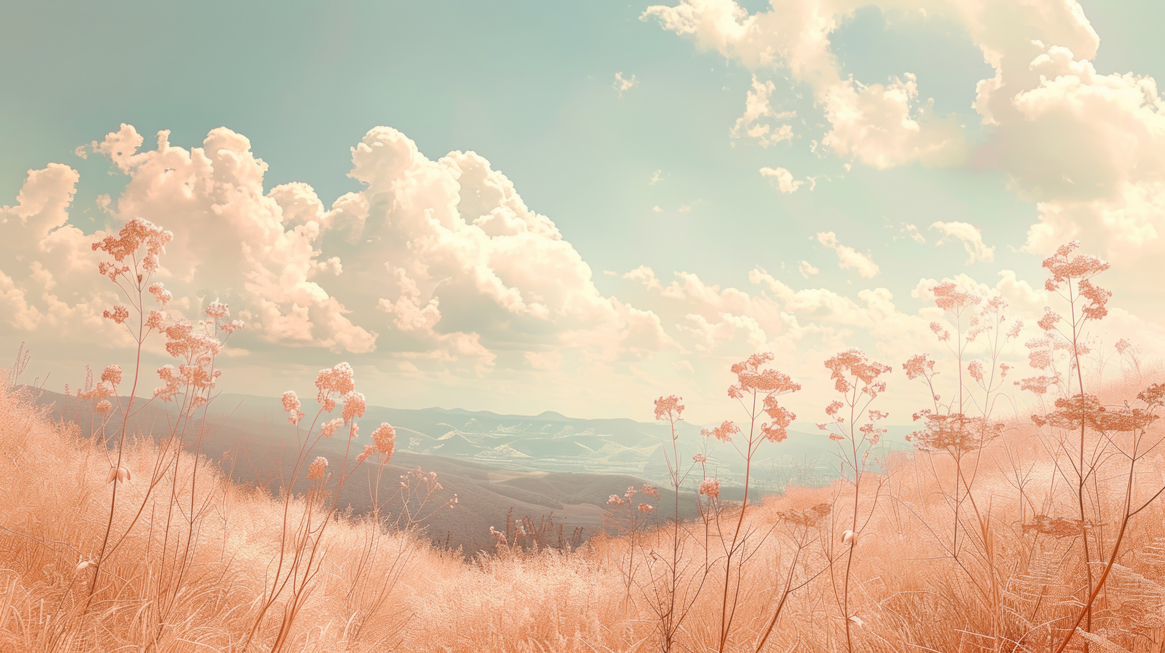
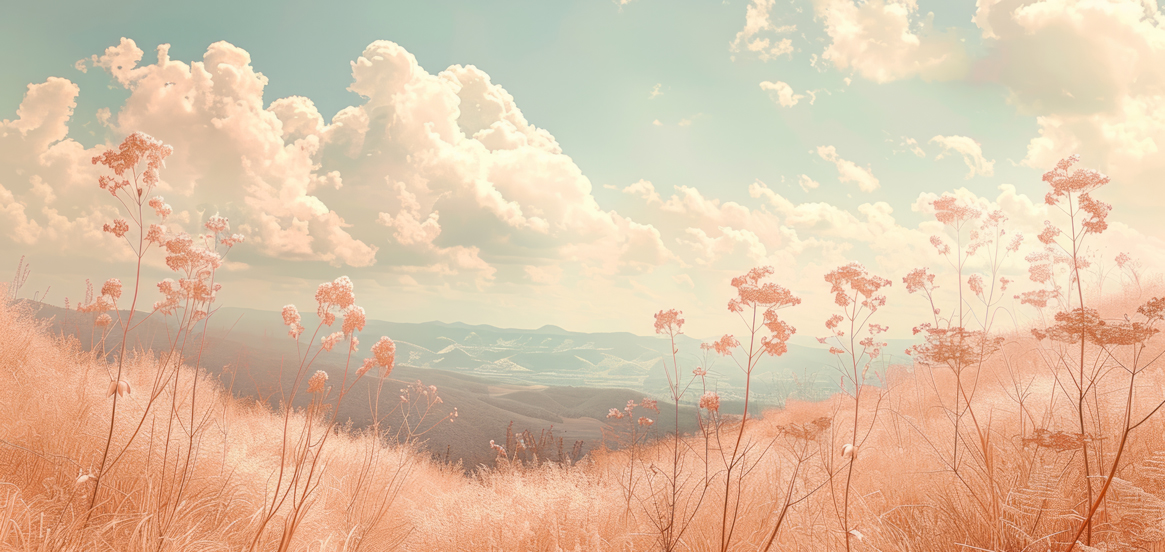
Update background image sizing and layout for better visual presentation
Adjusted `middle-bg.jpg` and its container in `middle-quote.tsx` to match design specifications, utilizing `object-cover` for proper scaling and refining layout for optimal display.

Replit-Commit-Author: Agent
Replit-Commit-Session-Id: 0701c79d-c459-4866-8ea2-ba45b09311ca
Replit-Commit-Checkpoint-Type: full_checkpoint
Replit-Commit-Screenshot-Url: https://storage.googleapis.com/screenshot-production-us-central1/5f877d85-86a5-4eb8-b1e2-08d581c5ae35/0701c79d-c459-4866-8ea2-ba45b09311ca/kLHvJ84

diff --git a/client/src/components/middle-quote.tsx b/client/src/components/middle-quote.tsx
@@ -2,26 +2,26 @@ import middleBgImage from "@assets/middle-bg.jpg";
 
 export default function MiddleQuote() {
   return (
-    <section className="relative w-full h-screen overflow-hidden">
+    <section className="relative w-full overflow-hidden">
       {/* Full-width background image */}
-      <div className="absolute inset-0">
+      <div className="relative w-full">
         <img 
           src={middleBgImage}
           alt="Peaceful cloudy landscape with wildflowers"
-          className="w-full h-full object-contain"
+          className="w-full h-auto object-cover"
         />
         {/* Enhanced overlay for better text readability */}
         <div className="absolute inset-0 bg-gradient-to-b from-black/30 via-black/50 to-black/30"></div>
-      </div>
-      
-      {/* Quote text with improved readability */}
-      <div className="relative z-10 flex items-center justify-center h-full px-4">
-        <div className="max-w-4xl mx-auto text-center">
-          {/* Text container with subtle background */}
-          <div className="bg-white/10 backdrop-blur-sm rounded-3xl p-8 md:p-12 border border-white/20">
-            <blockquote className="text-white text-2xl md:text-4xl lg:text-5xl font-vibes font-medium leading-relaxed drop-shadow-2xl">
-              "Like clouds drifting across the sky, feelings don't stay fixed. They move, change, and slowly make room for new ones."
-            </blockquote>
+        
+        {/* Quote text with improved readability */}
+        <div className="absolute inset-0 flex items-center justify-center px-4">
+          <div className="max-w-4xl mx-auto text-center">
+            {/* Text container with subtle background */}
+            <div className="bg-white/10 backdrop-blur-sm rounded-3xl p-8 md:p-12 border border-white/20">
+              <blockquote className="text-white text-2xl md:text-4xl lg:text-5xl font-vibes font-medium leading-relaxed drop-shadow-2xl">
+                "Like clouds drifting across the sky, feelings don't stay fixed. They move, change, and slowly make room for new ones."
+              </blockquote>
+            </div>
           </div>
         </div>
       </div>
